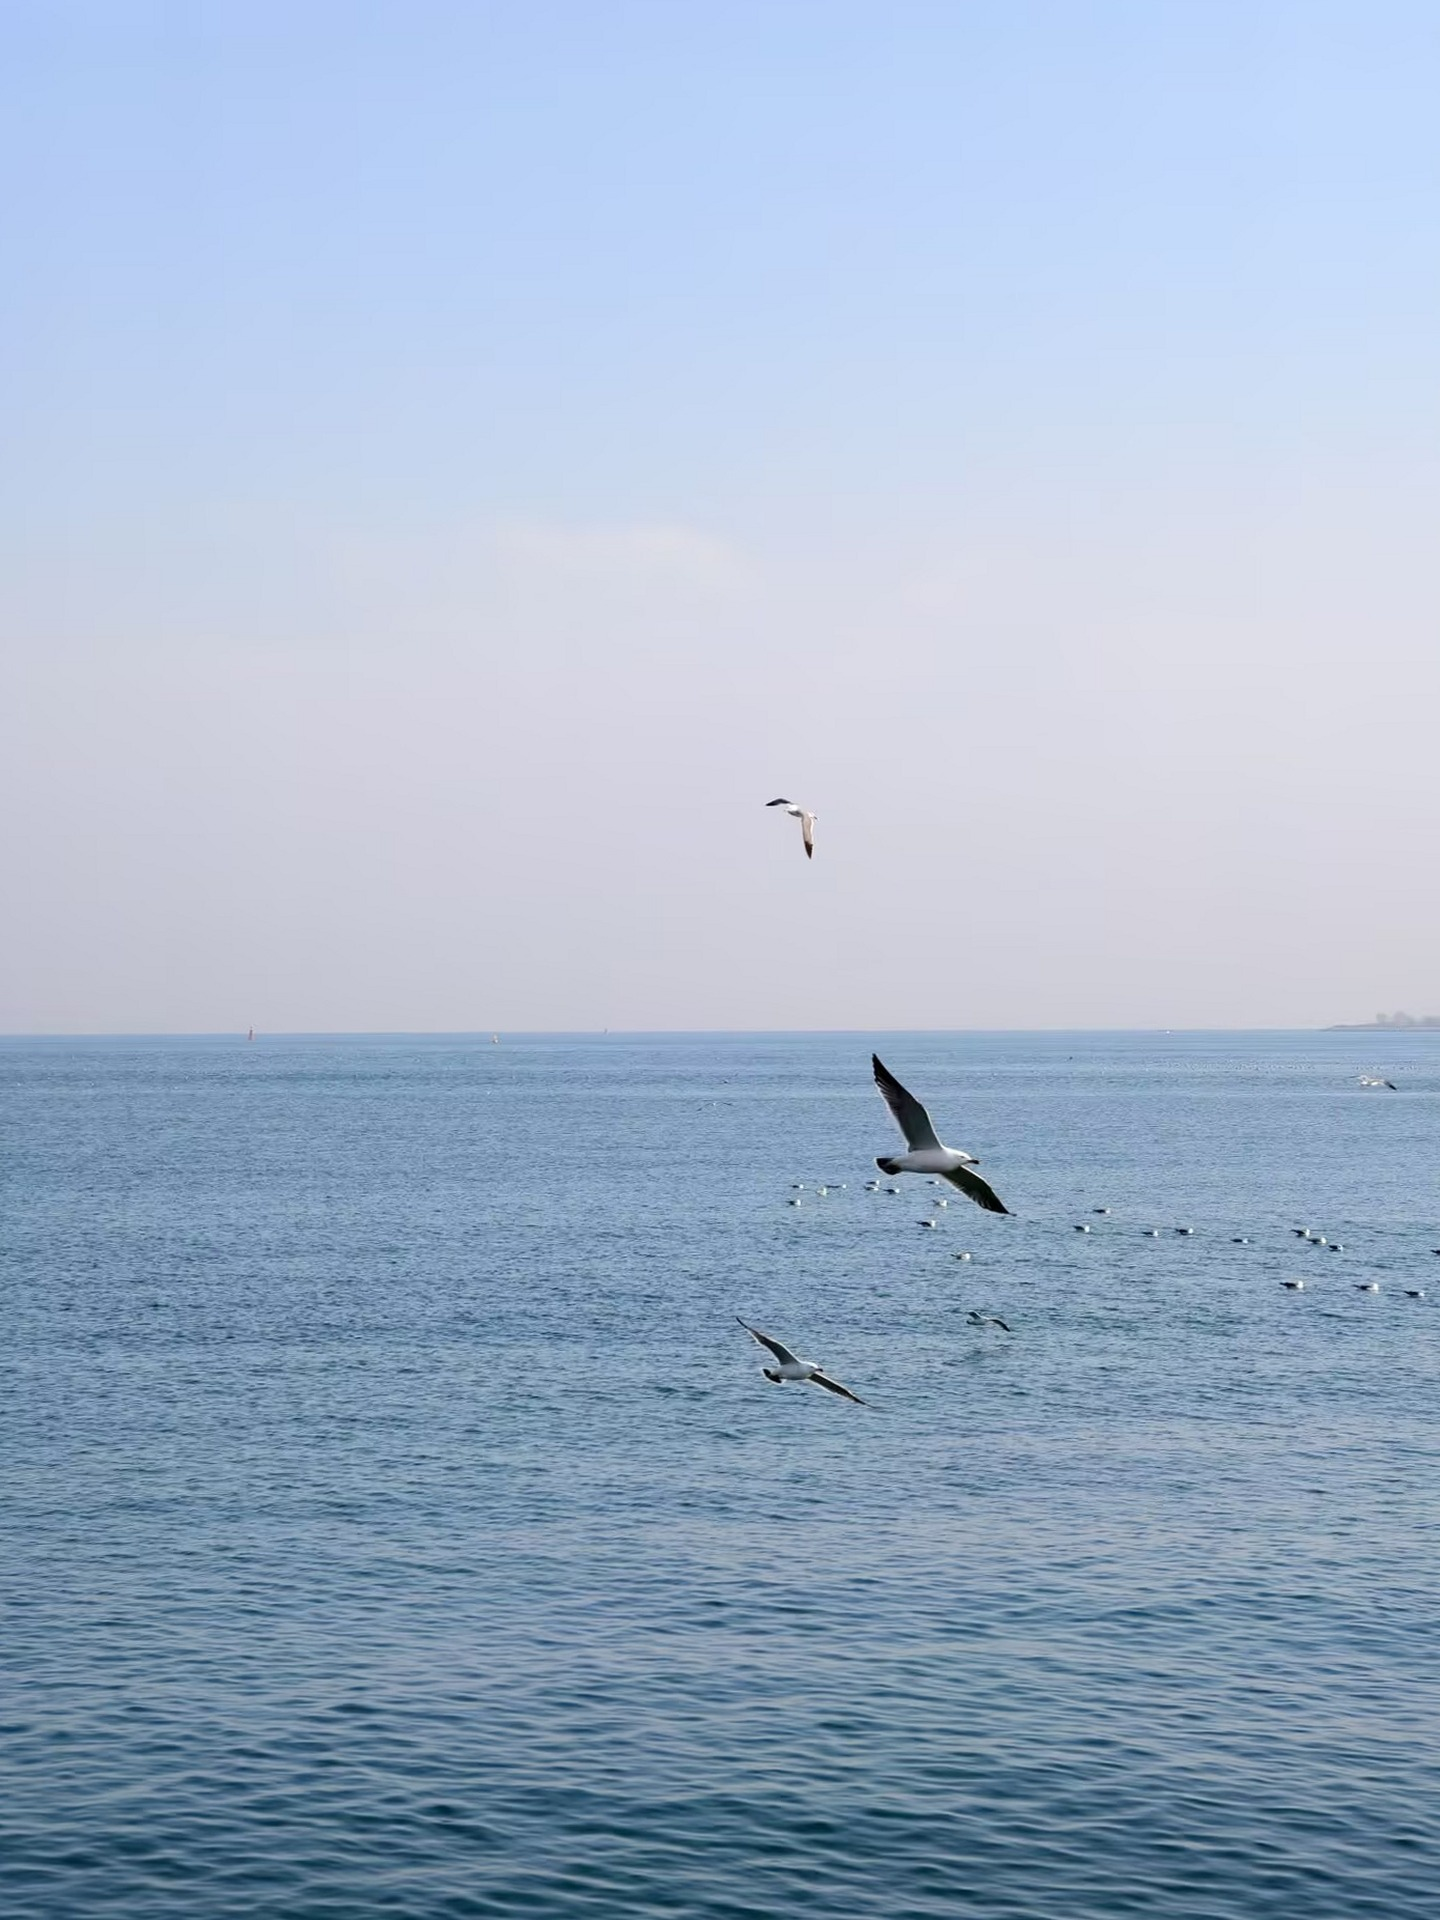
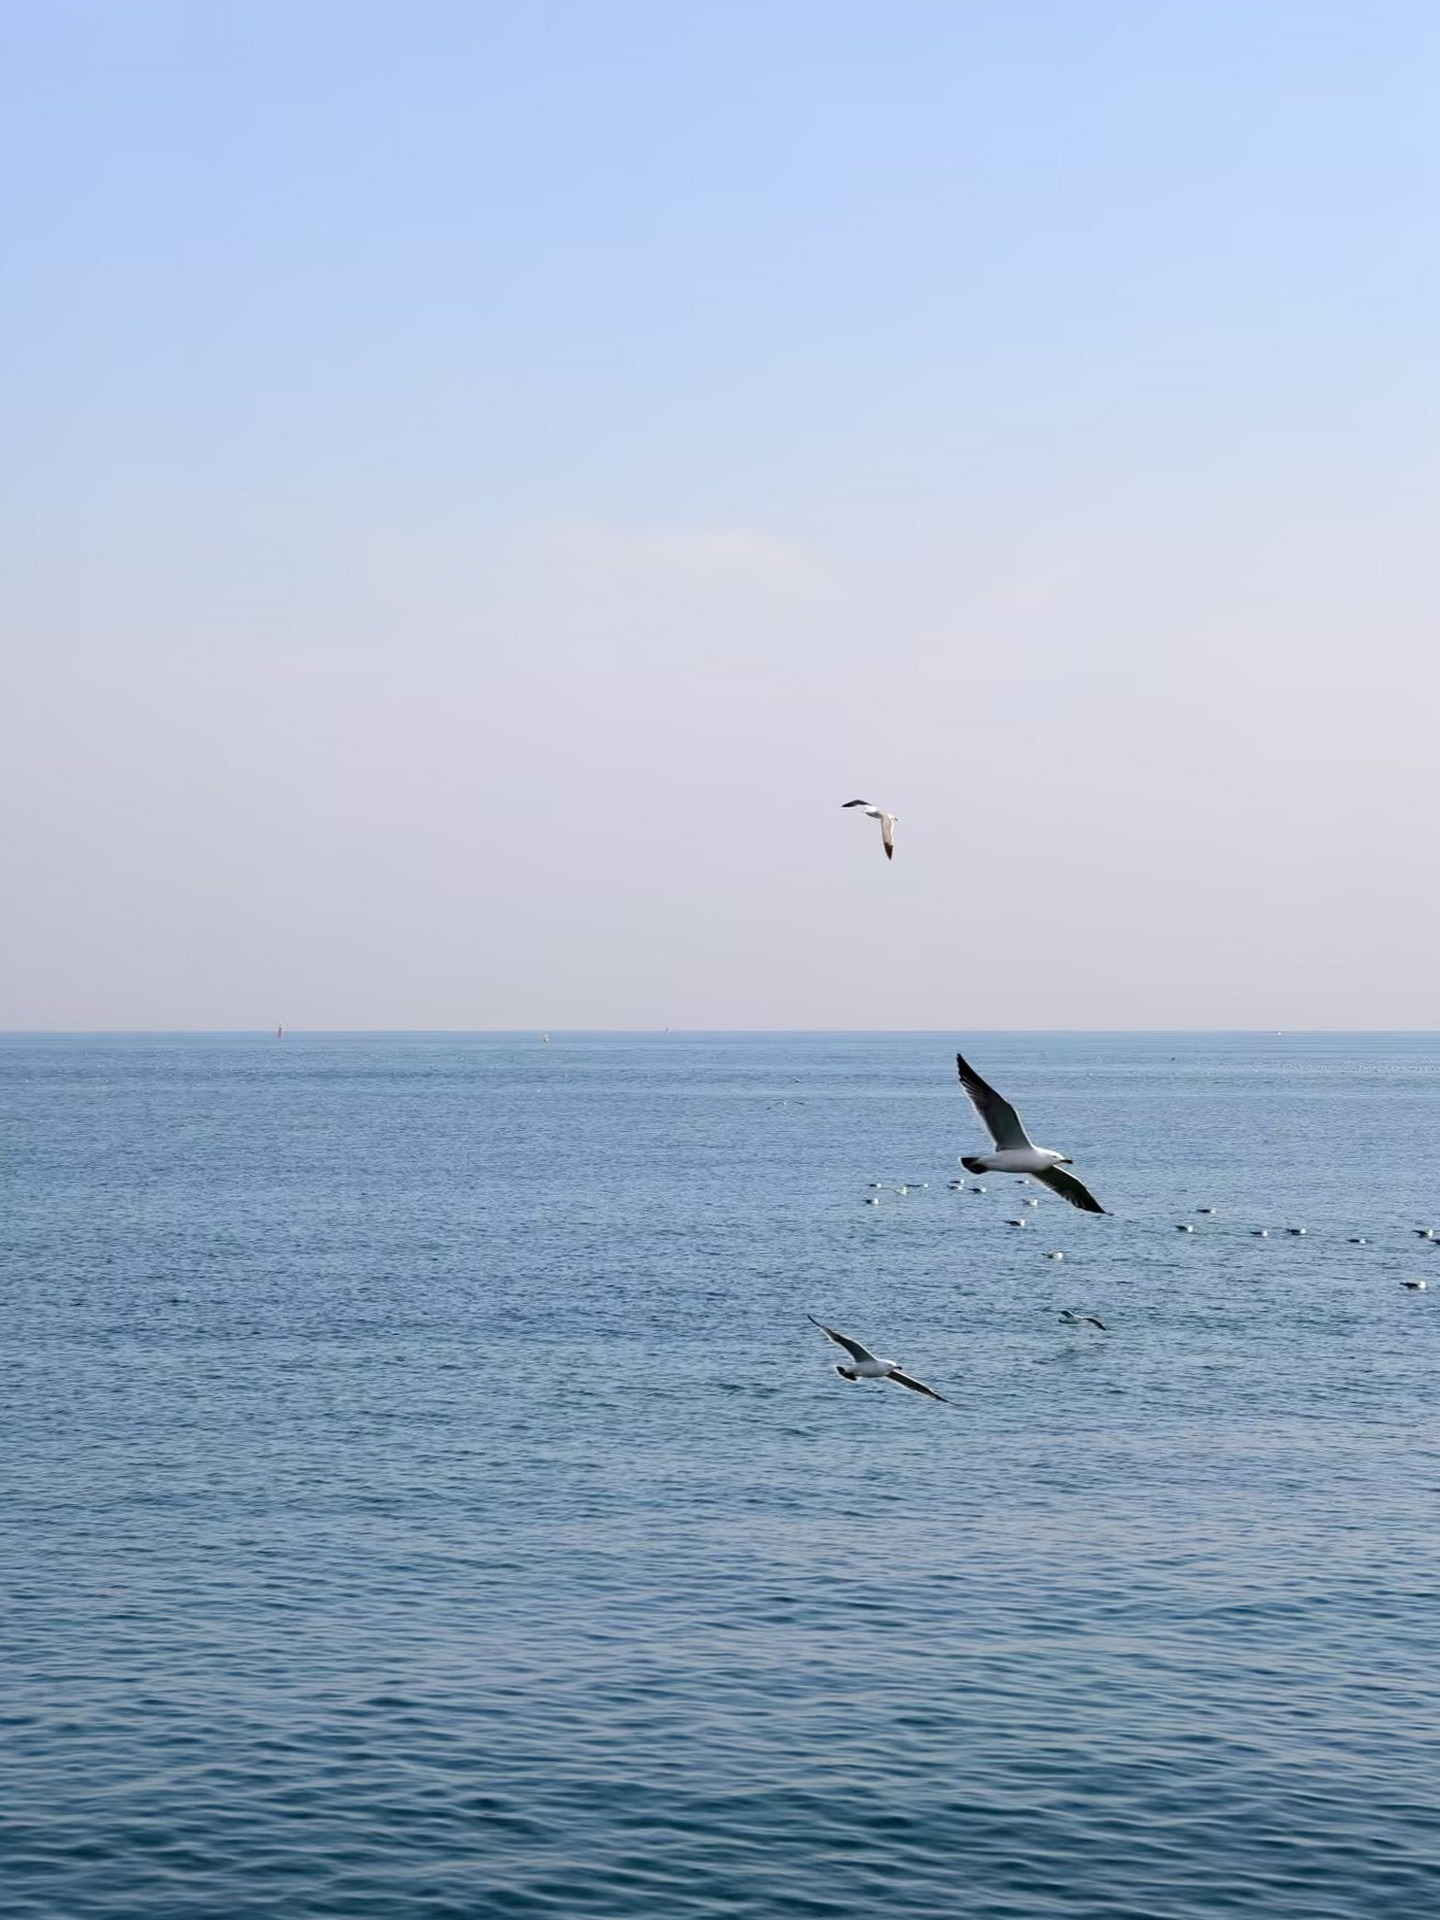
Refine blog theme and writing workflow

diff --git a/BLOG_GUIDE.md b/BLOG_GUIDE.md
@@ -1,0 +1,222 @@
+# Jackknifer 博客使用说明
+
+这个仓库是 `Jackknifer.github.io` 的源码仓库，使用 GitHub Pages、Hexo 和 Theme Redefine 发布。站点内容写在 `source` 目录里，主题外观主要改 `_config.redefine.yml`。
+
+## 1. 常用命令
+
+第一次在本地使用：
+
+```bash
+npm install
+```
+
+本地预览：
+
+```bash
+npm run server
+```
+
+包含草稿的本地预览：
+
+```bash
+npm run server:drafts
+```
+
+生成静态文件：
+
+```bash
+npm run build
+```
+
+新建正式文章：
+
+```bash
+npm run new:post -- "文章标题"
+```
+
+新建草稿：
+
+```bash
+npm run new:draft -- "文章标题"
+```
+
+发布草稿：
+
+```bash
+npm run publish -- "草稿文件名"
+```
+
+## 2. 文件说明
+
+`_config.yml` 是 Hexo 的主配置。这里控制站点标题、站点地址、永久链接格式、语言、时区、文章生成规则和当前主题。
+
+`_config.redefine.yml` 是 Theme Redefine 的主题配置。以后想改首页大图、导航栏、侧边栏、文章样式、代码块、目录、评论、页脚、注入 CSS，优先改这个文件。
+
+`source/_posts` 存放正式文章。每一篇 Markdown 文件都会生成一个公开页面。
+
+`source/_drafts` 存放草稿。草稿默认不会发布，只有 `npm run server:drafts` 本地预览时能看到。
+
+`source/images` 存放图片。文章里引用图片时使用 `/images/文件名`，例如 `![海面](/images/hero-sea-level.jpg)`。
+
+`source/about/index.md` 是“关于”页面。
+
+`source/now/index.md` 是“近况”页面，可以写最近在做什么。
+
+`source/tags/index.md` 和 `source/categories/index.md` 是标签、分类页面。
+
+`scaffolds/post.md` 是新建正式文章时使用的模板。
+
+`scaffolds/draft.md` 是新建草稿时使用的模板。
+
+`.github/workflows/pages.yml` 是 GitHub Actions 发布流程。推送到 `main` 分支后，它会自动安装依赖、构建 Hexo、发布到 GitHub Pages。
+
+`public` 是构建产物。本地 `npm run build` 会生成它，但平时主要改 `source`、配置文件和模板。
+
+## 3. 文章写作和上传流程
+
+推荐流程：
+
+```bash
+npm run new:post -- "我的文章标题"
+```
+
+生成的文件在 `source/_posts`。打开后先改文件顶部的 Front Matter：
+
+```yaml
+---
+title: 我的文章标题
+date: 2020-05-03 21:30:00
+updated: 2026-06-14 17:00:00
+tags:
+  - 标签一
+  - 标签二
+categories:
+  - 分类名
+description: 这是一句话摘要，会出现在首页列表和搜索结果里。
+cover: /images/my-cover.jpg
+thumbnail:
+sticky:
+---
+```
+
+`date` 可以手动改成旧文章的真实写作时间，所以你可以补发以前的文章。格式建议统一使用 `YYYY-MM-DD HH:mm:ss`。
+
+`updated` 可以写最后整理或迁移的时间。如果不想区分，可以和 `date` 一样。
+
+`tags` 是标签，可以有多个。
+
+`categories` 是分类，建议一篇文章只放一个主分类，后期更好整理。
+
+`description` 是摘要，建议控制在一两句话。
+
+`cover` 是文章头图或列表图，Theme Redefine 会读取它。
+
+写完后本地检查：
+
+```bash
+npm run server
+```
+
+确认没问题后构建：
+
+```bash
+npm run build
+```
+
+最后提交并推送：
+
+```bash
+git add .
+git commit -m "Add post: 我的文章标题"
+git push origin main
+```
+
+推送后 GitHub Actions 会自动发布。发布进度在仓库的 Actions 页面查看。
+
+## 4. 草稿工作流
+
+如果一篇文章还没写完，先建草稿：
+
+```bash
+npm run new:draft -- "未完成文章"
+```
+
+草稿在 `source/_drafts`，默认不会上线。本地预览草稿：
+
+```bash
+npm run server:drafts
+```
+
+写完后发布草稿：
+
+```bash
+npm run publish -- "未完成文章"
+```
+
+发布后文件会进入 `source/_posts`。发布前仍然可以手动修改 `date`，适合迁移旧文。
+
+## 5. 图片使用建议
+
+把图片放到 `source/images`，文章中这样引用：
+
+```markdown
+![图片说明](/images/example.jpg)
+```
+
+如果是文章封面，在 Front Matter 里写：
+
+```yaml
+cover: /images/example.jpg
+```
+
+Redefine 文档也建议把常用图片放在 Hexo 根目录下的 `source/images`，再用 `/images/...` 引用。
+
+## 6. 怎么使用 Redefine 文档改这个博客
+
+可以。这个博客已经使用 Theme Redefine，官方文档里的大部分配置都可以用在这里。
+
+Redefine 官方文档：https://redefine-docs.ohevan.com/zh/docs
+
+常用对应关系：
+
+| 想修改的内容 | 修改文件 | 位置 |
+| --- | --- | --- |
+| 首页大图、标题、打字字幕 | `_config.redefine.yml` | `home_banner` |
+| 顶部导航 | `_config.redefine.yml` | `navbar.links` |
+| 侧边栏公告 | `_config.redefine.yml` | `home.sidebar.announcement` |
+| 首页文章摘要长度 | `_config.redefine.yml` | `home.excerpt_length` |
+| 文章字号、行高、图片圆角 | `_config.redefine.yml` | `articles.style` |
+| 代码块复制按钮和高亮主题 | `_config.redefine.yml` | `articles.code_block` |
+| 目录深度 | `_config.redefine.yml` | `articles.toc` |
+| 评论系统 | `_config.redefine.yml` | `comment` |
+| 页脚运行时间和文案 | `_config.redefine.yml` | `footer` |
+| 自定义 CSS 或脚本 | `_config.redefine.yml` | `inject` |
+
+一个重要原则：尽量不要直接改 `node_modules/hexo-theme-redefine` 里的主题源码。主题升级后这些改动容易丢。日常改动优先放在 `_config.redefine.yml`，少量样式可以放在 `inject.head` 的 `<style>` 里。
+
+## 7. GitHub 仓库能否设置成私密
+
+可以把仓库设置成私密，但 GitHub Pages 对私有仓库有计划限制。GitHub 官方说明是：GitHub Free 支持公开仓库的 GitHub Pages；GitHub Pro、Team、Enterprise 支持公开和私有仓库的 GitHub Pages。
+
+所以建议先确认账号计划。如果是 GitHub Free，把 `Jackknifer.github.io` 改成私有仓库可能导致 Pages 站点无法继续发布或被取消发布。
+
+如果确认账号计划支持私有仓库 Pages，可以在 GitHub 仓库页面进入：
+
+`Settings` -> `General` -> `Danger Zone` -> `Change repository visibility`
+
+然后选择 `Make private`。
+
+注意：即使仓库是私有的，已经发布出来的网站页面本身通常仍是面向访问者的公开网页。不要把密码、身份证、密钥、未公开资料写进博客文章或构建产物。
+
+## 8. 推荐后续优化
+
+短期可以继续做：
+
+- 给每篇文章补 `description` 和 `cover`。
+- 用 `tags` 管主题，用 `categories` 管文章类型。
+- 给旧文统一补真实 `date`。
+- 增加评论系统，例如 Giscus 或 Waline。
+- 绑定自定义域名。
+- 定期更新依赖并本地运行 `npm run build` 检查。
+
+这个站点现在已经可以进入正常写作状态。后续美化时，优先围绕内容可读性、首页第一眼、文章页面阅读体验来改，不要一次加太多装饰功能。

diff --git a/source/about/index.md b/source/about/index.md
@@ -6,11 +6,15 @@ type: about
 
 你好，我是 Jackknifer。
 
-这个博客先从一个轻量版本开始：记录学习过程、项目经验、读书笔记，以及那些值得回头看的想法。
+这个博客先从一个轻量但可持续的版本开始：记录学习过程、项目经验、读书笔记，以及那些值得回头看的想法。
 
-后面可以继续扩展：
+这里会更像一间长期使用的工作间，而不是只放成品的展柜：文章可以是完整教程，也可以是某次排错、一本书的摘记、一个旧想法的回收。
 
-- 增加分类和标签
-- 绑定自己的域名
-- 增加评论、搜索和访问统计
-- 写一些真正值得长期保留的文章
+目前主要会放这些内容：
+
+- 技术学习和项目实践
+- 读书笔记和资料整理
+- 旧文章归档
+- 阶段性想法和近况记录
+
+这个站点会慢慢调整。先把内容留下来，再让它一点点变得更像自己。

diff --git a/source/now/index.md b/source/now/index.md
@@ -1,0 +1,13 @@
+---
+title: 近况
+date: 2026-06-14 17:43:26
+type: now
+---
+
+这里用来记录最近正在做的事。
+
+- 维护这个个人博客，让它更适合长期写作。
+- 整理过去的旧文章，保留原来的写作日期。
+- 把技术学习、阅读笔记和项目实践放到一个稳定的位置。
+
+以后可以把这里当成一张轻量的状态页：不必写成完整文章，也能留下最近的方向。

diff --git a/scaffolds/draft.md b/scaffolds/draft.md
@@ -1,6 +1,13 @@
 ---
 title: {{ title }}
+date: {{ date }}
+updated: {{ date }}
 tags:
+  -
 categories:
+  -
 description:
+cover:
+thumbnail:
+sticky:
 ---

diff --git a/README.md b/README.md
@@ -2,6 +2,8 @@
 
 Jackknifer 的 GitHub Pages 个人博客，基于 Hexo 和 Theme Redefine。
 
+详细使用说明见 [BLOG_GUIDE.md](./BLOG_GUIDE.md)。
+
 ## 本地预览
 
 ```bash
@@ -12,7 +14,7 @@ npm run server
 ## 写新文章
 
 ```bash
-npm run new "文章标题"
+npm run new:post -- "文章标题"
 ```
 
-文章会生成在 `source/_posts` 目录。提交并推送到 `main` 后，GitHub Actions 会自动构建并发布到 GitHub Pages。
+文章会生成在 `source/_posts` 目录。文章日期可以在 Front Matter 里的 `date` 字段手动填写，适合补发旧文。提交并推送到 `main` 后，GitHub Actions 会自动构建并发布到 GitHub Pages。

diff --git a/scaffolds/post.md b/scaffolds/post.md
@@ -1,7 +1,13 @@
 ---
 title: {{ title }}
 date: {{ date }}
+updated: {{ date }}
 tags:
+  -
 categories:
+  -
 description:
+cover:
+thumbnail:
+sticky:
 ---